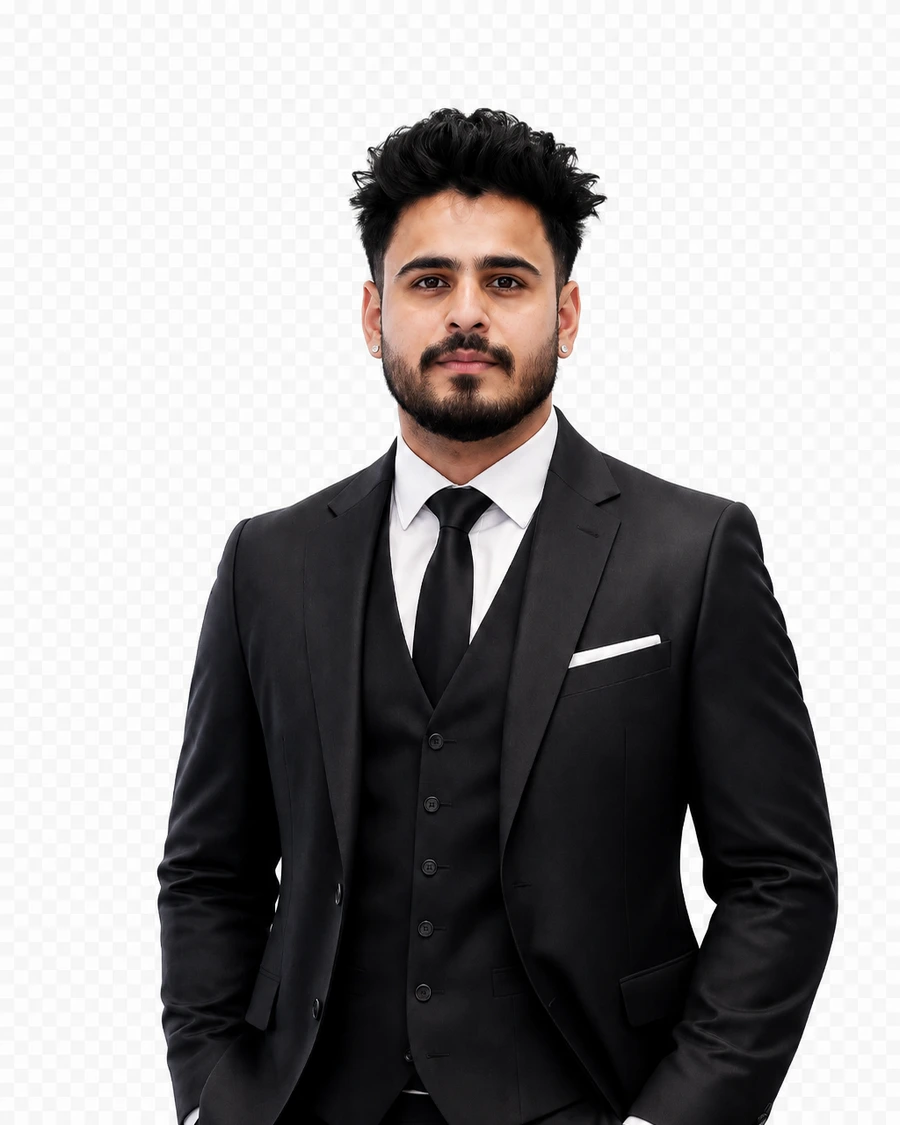
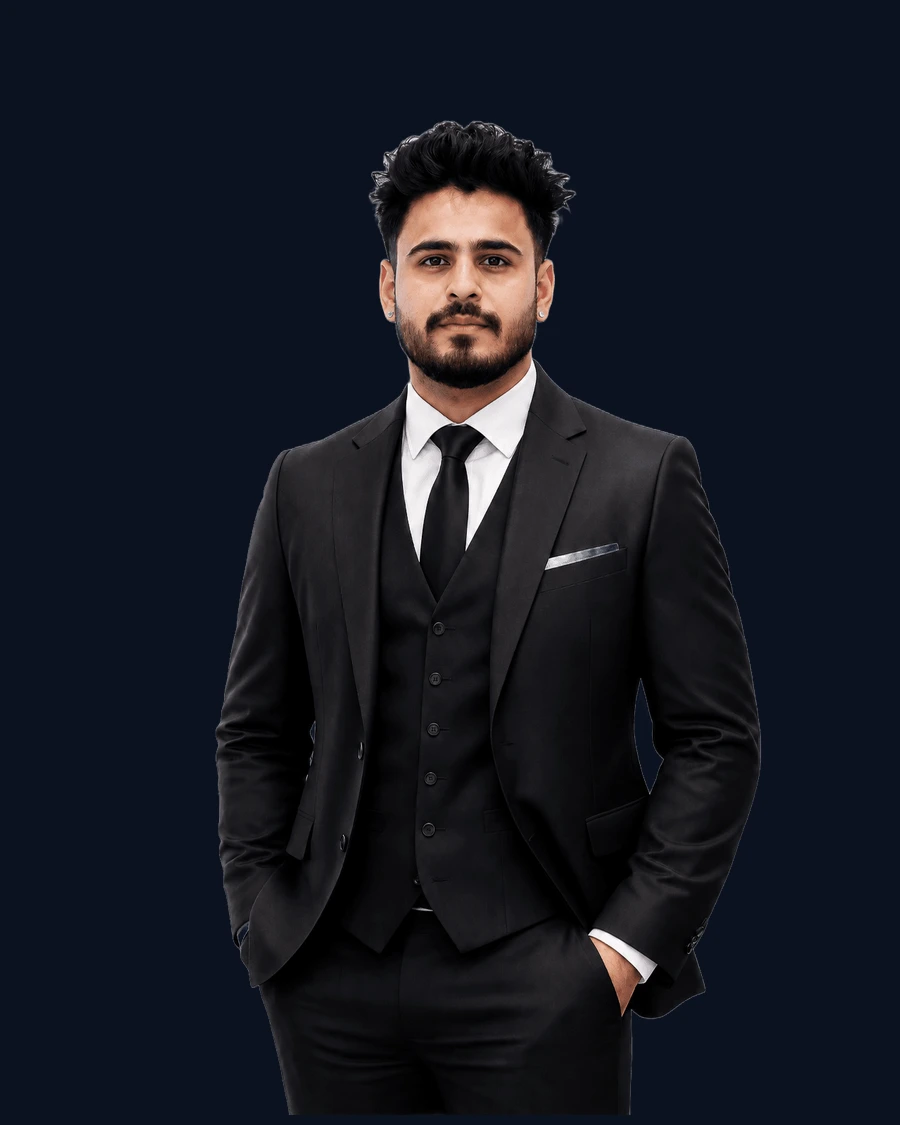
push fuxed

diff --git a/app/data/profile.js b/app/data/profile.js
@@ -7,8 +7,8 @@ export const profile = {
   email: "alliybutt3@gmail.com",
   phone: "+923230112504",
   phoneDisplay: "+92 323 0112504",
-  photo: "/assets/images/profile.jpg?v=3",
-  photoAvatar: "/assets/images/profile-avatar.jpg?v=3",
+  photo: "/assets/images/profile-hero.png?v=9",
+  photoAvatar: "/assets/images/profile-avatar.jpg?v=9",
   linkedin: "https://www.linkedin.com/in/muhammad-ali-butt-1a7758299",
   heroText:
     "I build scalable web applications with React, Laravel, MERN, and Docker — clean UI on the front, solid APIs and databases on the back.",
@@ -337,6 +337,42 @@ export const profile = {
         "Enquiry / Callback Flow",
       ],
       reverse: false,
+    },
+    {
+      slug: "alhamd-travel-usa",
+      title: "Alhamd Travel (USA)",
+      tag: "Travel / Hajj & Umrah",
+      image: "/assets/images/project-alhamdtravel-home.png",
+      gallery: [
+        {
+          src: "/assets/images/project-alhamdtravel-home.png",
+          label: "Homepage / Package Finder",
+        },
+        {
+          src: "/assets/images/project-alhamdtravel-umrah.png",
+          label: "Umrah 2026 Packages",
+        },
+        {
+          src: "/assets/images/project-alhamdtravel-hajj.png",
+          label: "Shifting Hajj Packages",
+        },
+        {
+          src: "/assets/images/project-alhamdtravel-contact.png",
+          label: "Contact Page",
+        },
+      ],
+      url: "https://www.alhamdtravel.com/",
+      description:
+        "USA-focused Hajj & Umrah travel agency site with multi-city package search, seasonal deals, custom packages, visa info, and enquiry flows for pilgrims across major US airports.",
+      details:
+        "Alhamd Travel is a US Islamic travel platform for Hajj and Umrah. It features departure-airport package search, Umrah and Hajj package categories (including city-specific and seasonal deals), custom packages, visa guidance, and contact/enquiry options for travelers booking from the United States.",
+      highlights: [
+        "US Airport Package Search",
+        "Hajj & Umrah Deal Listings",
+        "City-Specific Umrah Packages",
+        "Enquiry / Contact Flows",
+      ],
+      reverse: true,
     },
     {
       slug: "echo-fine-properties",

diff --git a/app/globals.css b/app/globals.css
@@ -386,29 +386,31 @@ a:hover {
 
 .author-image-part {
   position: relative;
+  background: transparent !important;
+  overflow: visible !important;
+  border-radius: 0 !important;
+  max-width: 480px;
+  margin-left: auto;
+  margin-right: auto;
 }
 
 .author-image-part > img {
   width: 100%;
-  max-width: 520px;
-  aspect-ratio: 4 / 5;
-  object-fit: cover;
-  object-position: center 12%;
-  border-radius: 28px;
-  border: 1px solid var(--line);
-  box-shadow: var(--shadow);
+  max-width: 480px;
+  height: auto;
+  aspect-ratio: 1 / 1;
+  object-fit: contain;
+  object-position: center center;
+  border-radius: 50%;
+  border: 0 !important;
+  box-shadow: 0 24px 50px rgba(0, 0, 0, 0.35) !important;
+  background: transparent !important;
   animation: softRise 0.85s ease both;
-  background: var(--panel);
 }
 
-.author-image-part .bg-circle {
-  background: radial-gradient(circle, var(--accent-soft), transparent 68%) !important;
-  opacity: 1 !important;
-  filter: blur(8px);
-}
-
+.author-image-part .bg-circle,
 .author-image-part .progress-shape {
-  opacity: 0.55;
+  display: none !important;
 }
 
 .about-btn img {
@@ -418,13 +420,22 @@ a:hover {
   border-radius: 50%;
 }
 
+.about-image-part {
+  background: transparent !important;
+  max-width: 420px;
+  margin-left: auto;
+}
+
 .about-image-part > img {
   width: 100%;
   height: auto;
   aspect-ratio: 1 / 1;
-  object-fit: cover;
-  object-position: center top;
-  border-radius: 20px;
+  object-fit: contain;
+  object-position: center center;
+  border-radius: 50%;
+  border: 0 !important;
+  box-shadow: 0 20px 44px rgba(0, 0, 0, 0.3) !important;
+  background: transparent !important;
 }
 
 /* Floating about pills stay white — keep dark readable text */
